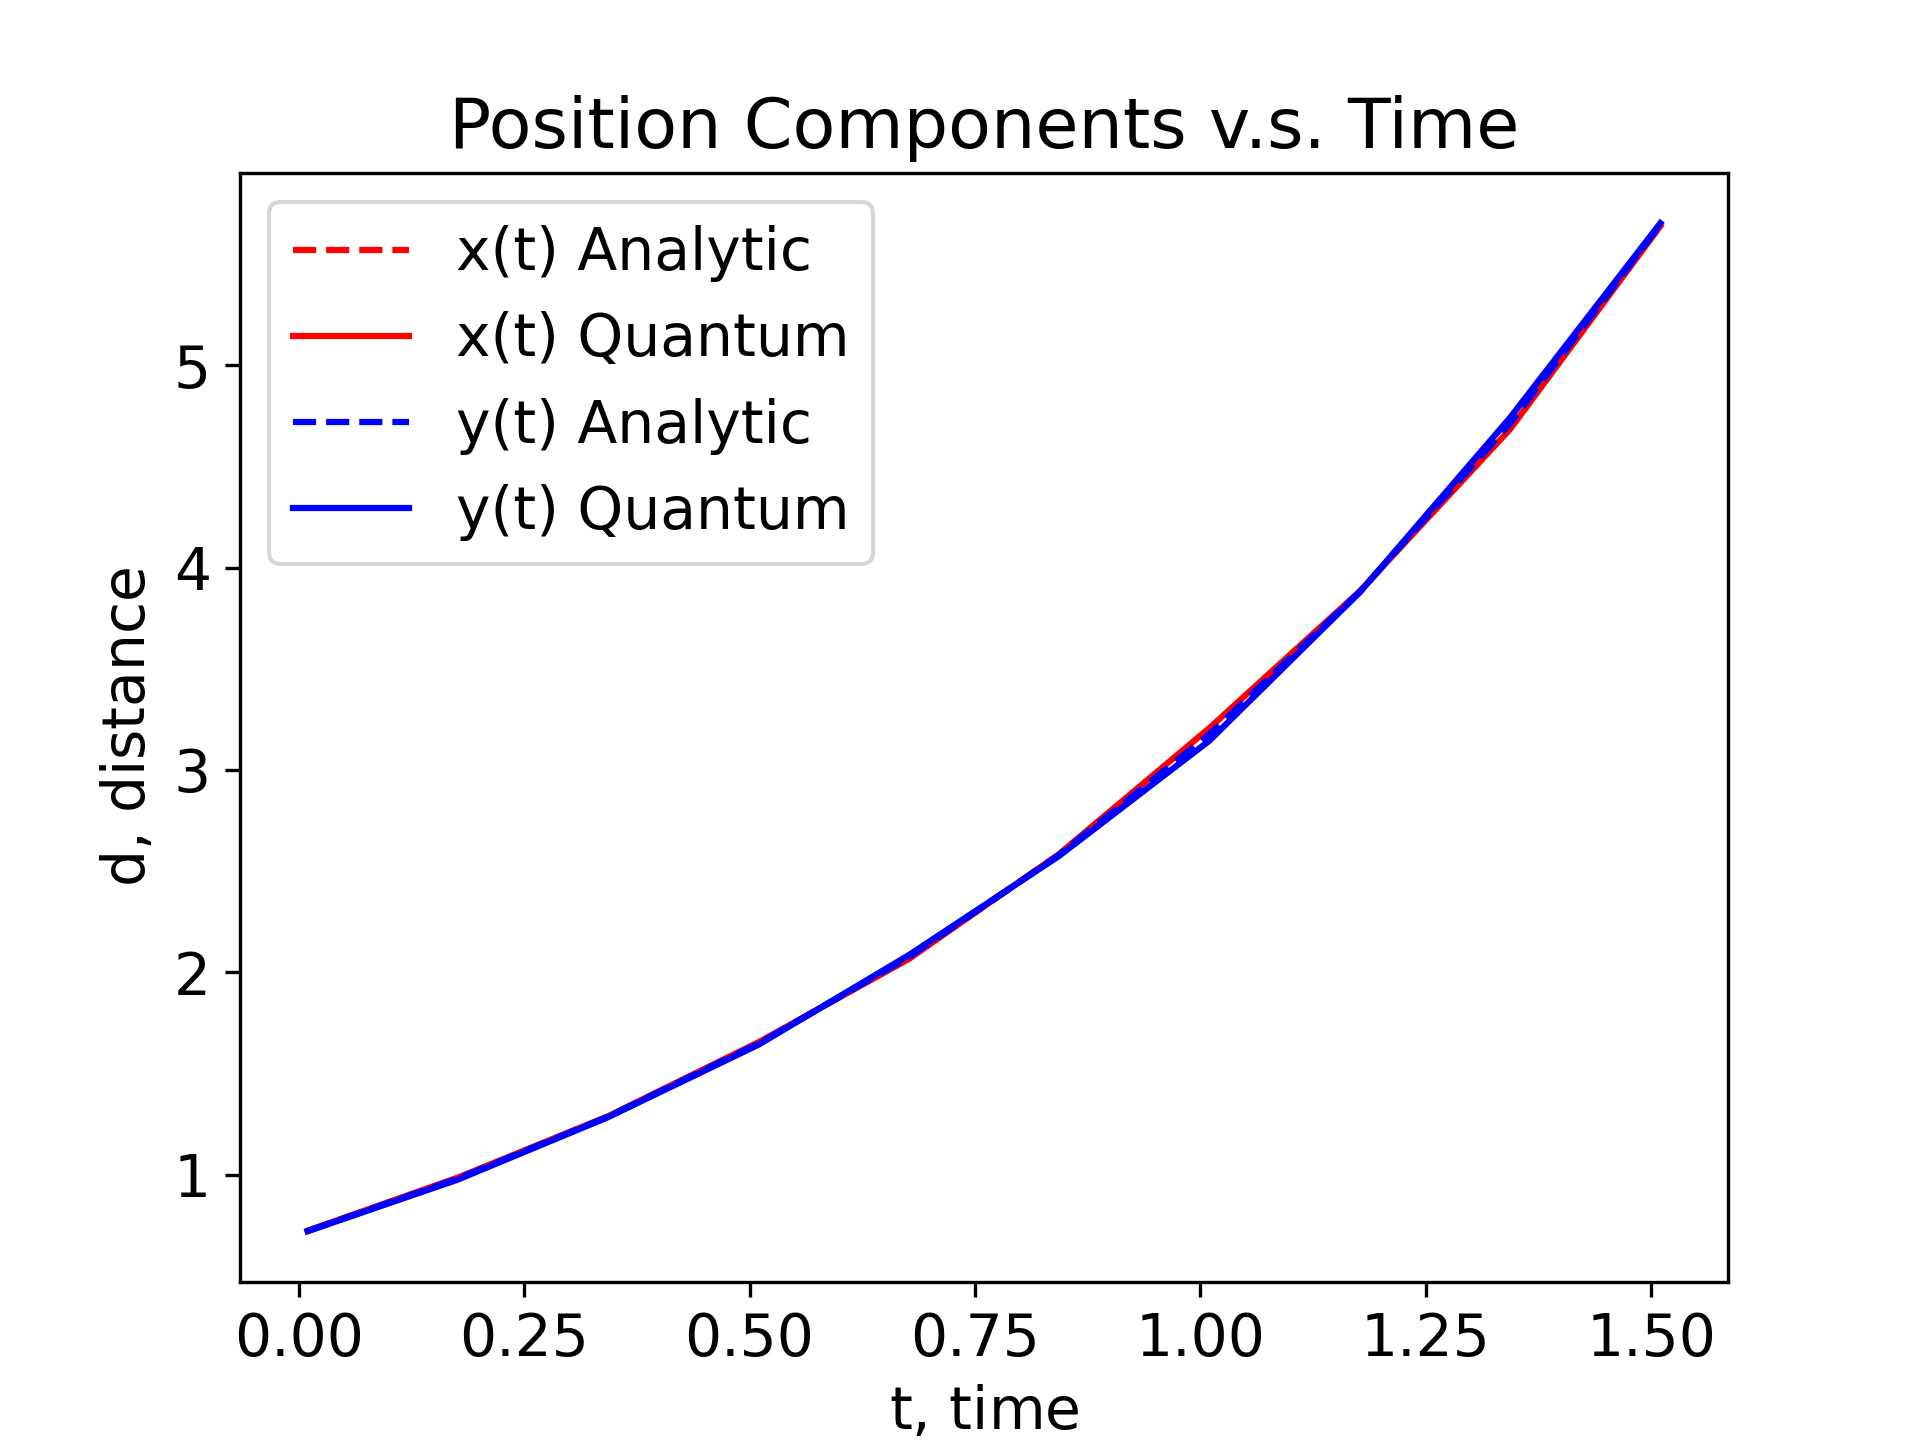
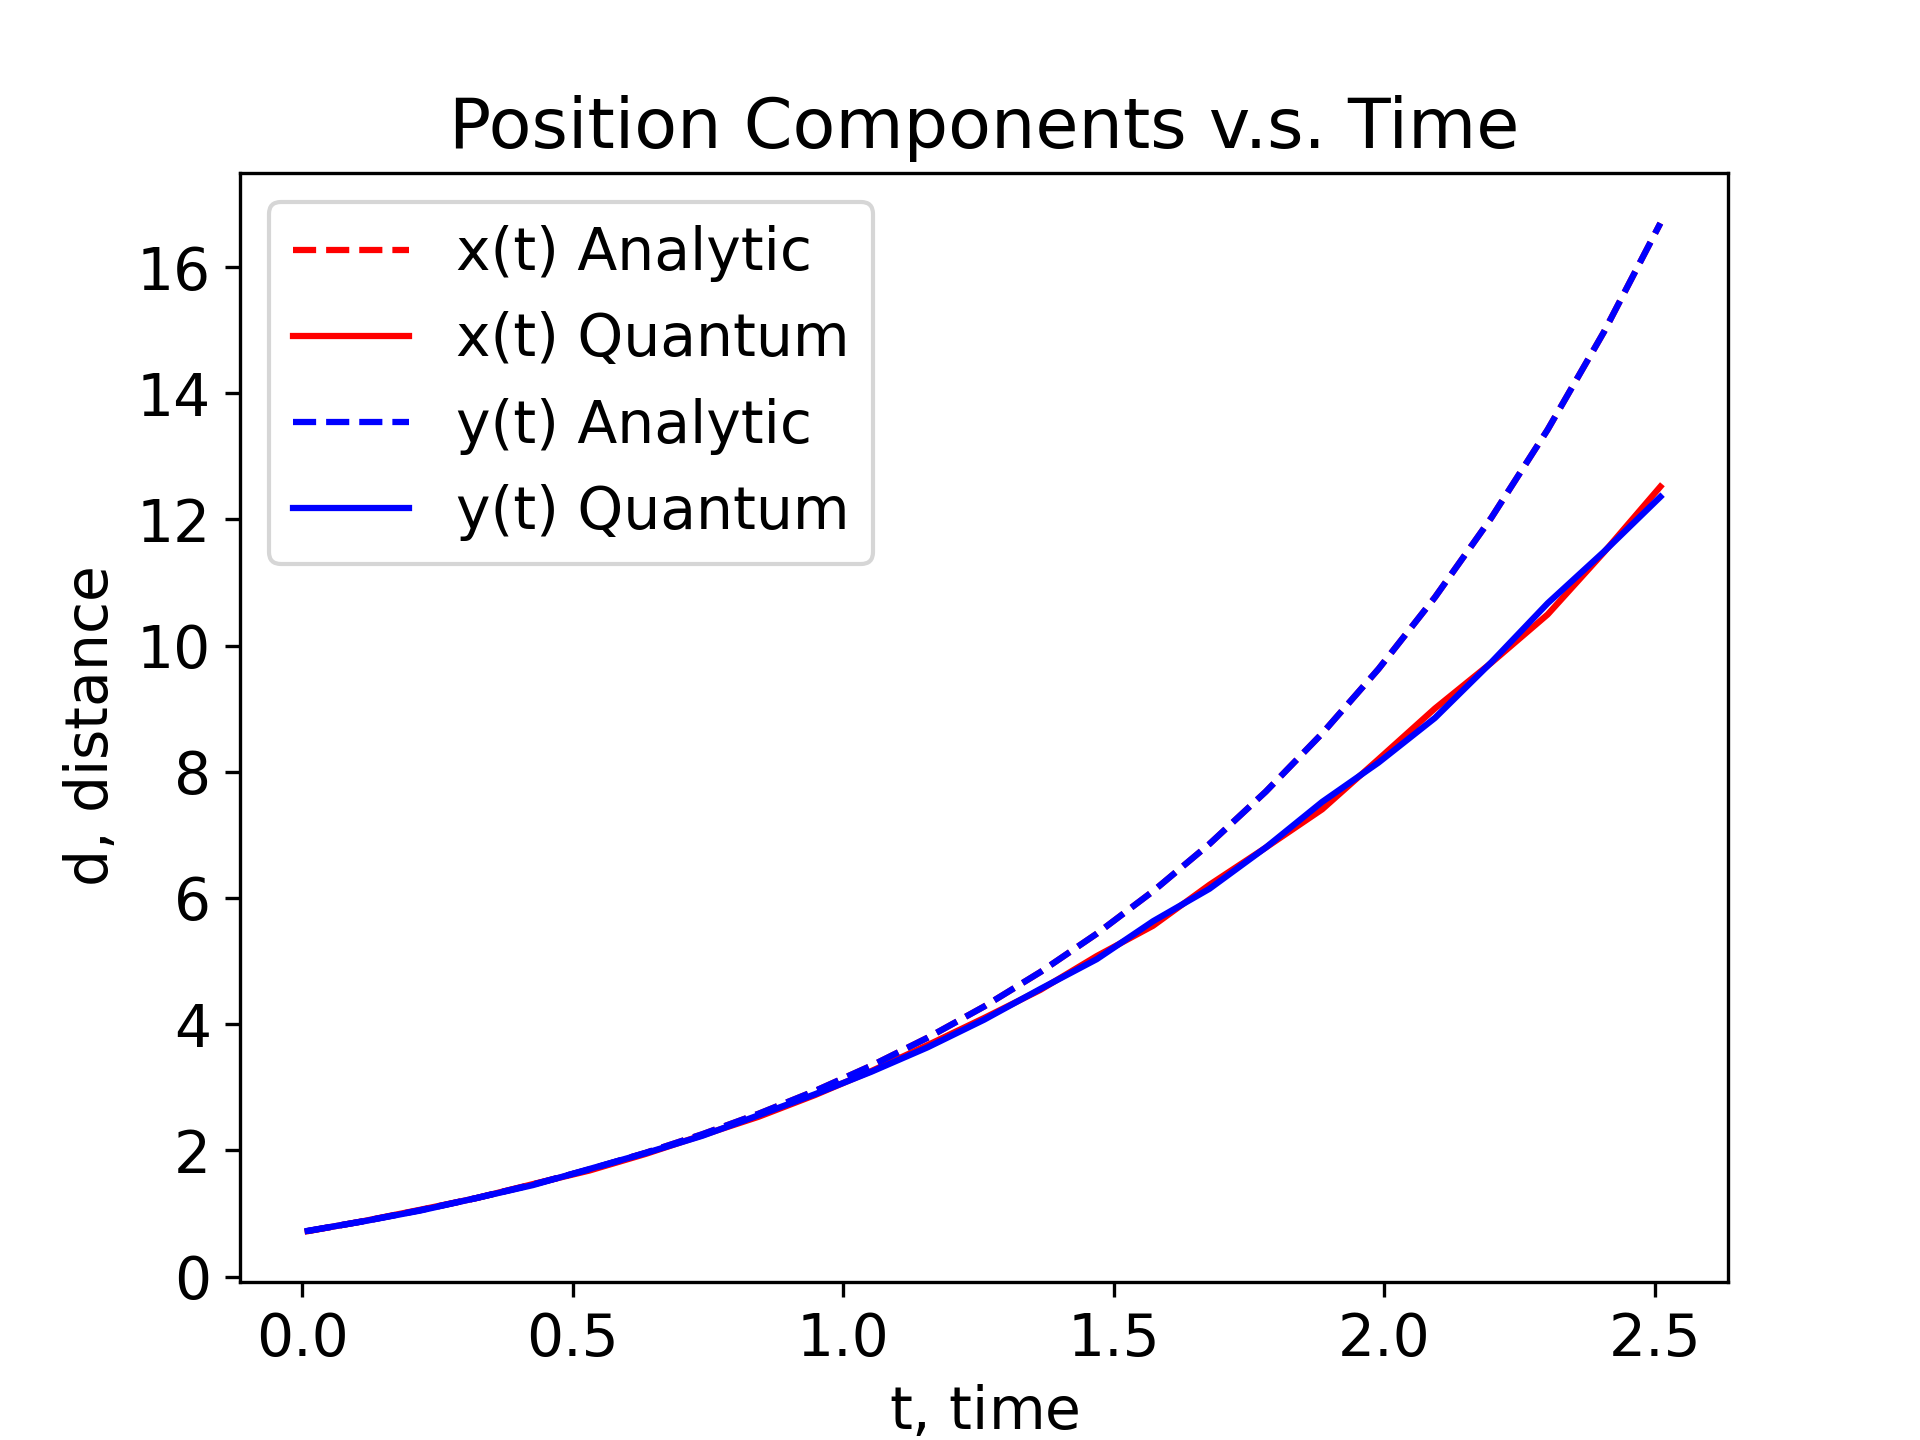
tweaked for presentation

diff --git a/src/quantum_circuit.py b/src/quantum_circuit.py
@@ -53,7 +53,7 @@ class LDESolver:
 
     def draw_circuit(self):
         """"""
-        self.circuit.draw('mpl', style={'name': 'bw', 'dpi': 350})
+        self.circuit.draw('mpl', style={'name': 'bw', 'dpi': 350}, filename="./results/circuit.png")
         plt.show()
 
     def display_results(self):
@@ -63,12 +63,12 @@ class LDESolver:
         print(probs, self.N)
         # self.x = min(probs['100000'], probs['000001'])
         y_adj, x_adj = 0, 0
-        if '000001' in probs.keys():
-            y_adj = probs['000001']
-        if '100001' in probs.keys():
-            x_adj = probs['100001']
-        self.y = (self.N ** 2) * np.sqrt(probs['100000'] + y_adj)
-        self.x = (self.N ** 2) * np.sqrt(probs['000000'] + x_adj)
+        if '0001' in probs.keys():
+            y_adj = probs['0001']
+        if '1001' in probs.keys():
+            x_adj = probs['1001']
+        self.y = (self.N ** 2) * np.sqrt(probs['1000'] + y_adj)
+        self.x = (self.N ** 2) * np.sqrt(probs['0000'] + x_adj)
         # self.x = probs['00001']
         # self.y = min(probs['000000'], probs['100001'])
         # plot_histogram(self.result.get_counts(), title="LDE Solver", color='black')
@@ -79,14 +79,14 @@ class LDESolver:
         self.circuit.measure_all()
 
     def entanglement(self):
-        order = 4
-        for i in range(2 ** order - 1):
+        order = 2
+        for i in range(2 ** order):
             # print(self.circuit)
             if i % 2 != 0:
                 ctrl = "".join(bin(i)[2:][::-1].ljust(order, '0'))
                 self.circuit.append(
                     XGate().control(num_ctrl_qubits=order, ctrl_state=ctrl),
-                    [self.anc_reg2[0], self.anc_reg2[1], self.anc_reg2[2], self.anc_reg2[3], self.work_qubit_reg[-1]]
+                    [self.anc_reg2[0], self.anc_reg2[1], self.work_qubit_reg[-1]]
                 )
         # self.circuit.append(
         #     XGate().control(num_ctrl_qubits=3, ctrl_state=3),
@@ -105,38 +105,38 @@ class LDESolver:
     # self.circuit.cx(self.anc_reg2, self.work_qubit_reg, ctrl_state='1')
 
     def encode(self):
-        S1_circuit = QuantumCircuit(5)
+        S1_circuit = QuantumCircuit(3)
         # Ux Ub
-        S1_circuit.h(4)
+        S1_circuit.h(2)
         # Vs1 Vs2
-        S1_circuit.unitary(self.v_S1_U, [0, 1, 2, 3], label='VS1')
+        S1_circuit.unitary(self.v_S1_U, [0, 1], label='VS1')
         S1_gate = S1_circuit.to_gate().control(1, ctrl_state='0')
 
-        S2_circuit = QuantumCircuit(5)
+        S2_circuit = QuantumCircuit(3)
         # S2_circuit.x(4)
-        S2_circuit.h(4)
-        S2_circuit.unitary(self.v_S2_U, [0, 1, 2, 3], label='VS2')
+        S2_circuit.h(2)
+        S2_circuit.unitary(self.v_S2_U, [0, 1], label='VS2')
         S2_gate = S2_circuit.to_gate().control(1, ctrl_state='1')
         # print(S2_circuit)
 
         self.circuit.unitary(self.V_U, 0, label='V')
-        self.circuit.append(S1_gate, [0, 1, 2, 3, 4, 5])
-        self.circuit.append(S2_gate, [0, 1, 2, 3, 4, 5])
+        self.circuit.append(S1_gate, [0, 1, 2, 3])
+        self.circuit.append(S2_gate, [0, 1, 2, 3])
 
     def decode(self):
 
-        S1_circuit = QuantumCircuit(4)
+        S1_circuit = QuantumCircuit(3)
         # Vs1 Vs2
-        S1_circuit.unitary(self.w_S1_U, [0, 1, 2, 3], label='WS1')
+        S1_circuit.unitary(self.w_S1_U, [0, 1], label='WS1')
         S1_gate = S1_circuit.to_gate().control(1, ctrl_state='0')
 
         # print(S1_circuit)
-        S2_circuit = QuantumCircuit(4)
-        S2_circuit.unitary(self.w_S2_U, [0, 1, 2, 3], label='WS2')
+        S2_circuit = QuantumCircuit(3)
+        S2_circuit.unitary(self.w_S2_U, [0, 1], label='WS2')
         S2_gate = S2_circuit.to_gate().control(1, ctrl_state='1')
         # print(S2_circuit)
-        self.circuit.append(S1_gate, [0, 1, 2, 3, 4])
-        self.circuit.append(S2_gate, [0, 1, 2, 3, 4])
+        self.circuit.append(S1_gate, [0, 1, 2, 3])
+        self.circuit.append(S2_gate, [0, 1, 2, 3])
         self.circuit.unitary(self.W_U, 0, label='W')
 
         # S1_circuit = QuantumCircuit(3)
@@ -167,37 +167,13 @@ class LDESolver:
             [[np.sqrt(self.e(t, 0, order, noSum=True, index=0)),
               np.sqrt(self.e(t, 1, order, noSum=True, index=1)),
               np.sqrt(self.e(t, 2, order, noSum=True, index=2)),
-              np.sqrt(self.e(t, 3, order, noSum=True, index=3)),
-              np.sqrt(self.e(t, 0, order, noSum=True, index=4)),
-              np.sqrt(self.e(t, 1, order, noSum=True, index=5)),
-              np.sqrt(self.e(t, 2, order, noSum=True, index=6)),
-              np.sqrt(self.e(t, 3, order, noSum=True, index=7)),
-              np.sqrt(self.e(t, 0, order, noSum=True, index=8)),
-              np.sqrt(self.e(t, 1, order, noSum=True, index=9)),
-              np.sqrt(self.e(t, 2, order, noSum=True, index=10)),
-              np.sqrt(self.e(t, 3, order, noSum=True, index=11)),
-              np.sqrt(self.e(t, 0, order, noSum=True, index=12)),
-              np.sqrt(self.e(t, 1, order, noSum=True, index=13)),
-              np.sqrt(self.e(t, 2, order, noSum=True, index=14)),
-              np.sqrt(self.e(t, 3, order, noSum=True, index=15))]]
+              np.sqrt(self.e(t, 3, order, noSum=True, index=3))]]
         )
 
         v_S2 = np.array(
             [[np.sqrt(self.e(t, 1, order, noSum=True, index=1)),
               np.sqrt(self.e(t, 2, order, noSum=True, index=2)),
               np.sqrt(self.e(t, 3, order, noSum=True, index=3)),
-              np.sqrt(self.e(t, 0, order, noSum=True, index=4)),
-              np.sqrt(self.e(t, 1, order, noSum=True, index=5)),
-              np.sqrt(self.e(t, 2, order, noSum=True, index=6)),
-              np.sqrt(self.e(t, 3, order, noSum=True, index=7)),
-              np.sqrt(self.e(t, 0, order, noSum=True, index=8)),
-              np.sqrt(self.e(t, 1, order, noSum=True, index=9)),
-              np.sqrt(self.e(t, 2, order, noSum=True, index=10)),
-              np.sqrt(self.e(t, 3, order, noSum=True, index=11)),
-              np.sqrt(self.e(t, 0, order, noSum=True, index=12)),
-              np.sqrt(self.e(t, 1, order, noSum=True, index=13)),
-              np.sqrt(self.e(t, 2, order, noSum=True, index=14)),
-              np.sqrt(self.e(t, 3, order, noSum=True, index=15)),
               0]]
         )
 

diff --git a/main.py b/main.py
@@ -4,9 +4,9 @@ from src.analytical_soln import *
 from src.quantum_circuit import *
 
 if __name__ == '__main__':
-    t = np.linspace(0.01, 1.51, 10)
+    t = np.linspace(0.01, 2.51, 25)
     # for t_ in t:
-    num_of_anc_reg1, num_of_anc_reg2, num_of_work_qubits = 1, 4, 1
+    num_of_anc_reg1, num_of_anc_reg2, num_of_work_qubits = 1, 2, 1
 
     p0, b = (1 / (np.sqrt(2))) * np.array([1, 1]), (1 / (np.sqrt(2))) * np.array([1, 1])
 
@@ -48,4 +48,14 @@ if __name__ == '__main__':
     plt.title("XY Phase Space")
 
     plt.savefig("./results/x_vs_y.png", dpi=300)
+    plt.show()
+
+    x_C = np.array(x_C)
+    x_Q = np.array(x_Q)
+    plt.plot(t, np.abs((x_C - x_Q) / x_Q) * 100, 'k', label='Relative Error')
+    plt.legend(loc='best')
+    plt.xlabel(r"$t$, time")
+    plt.ylabel(r"$|\Delta x / x|$, (%)")
+    plt.title("Relative Error v.s. Time")
+    plt.savefig("./results/error.png", dpi=300)
     plt.show()
